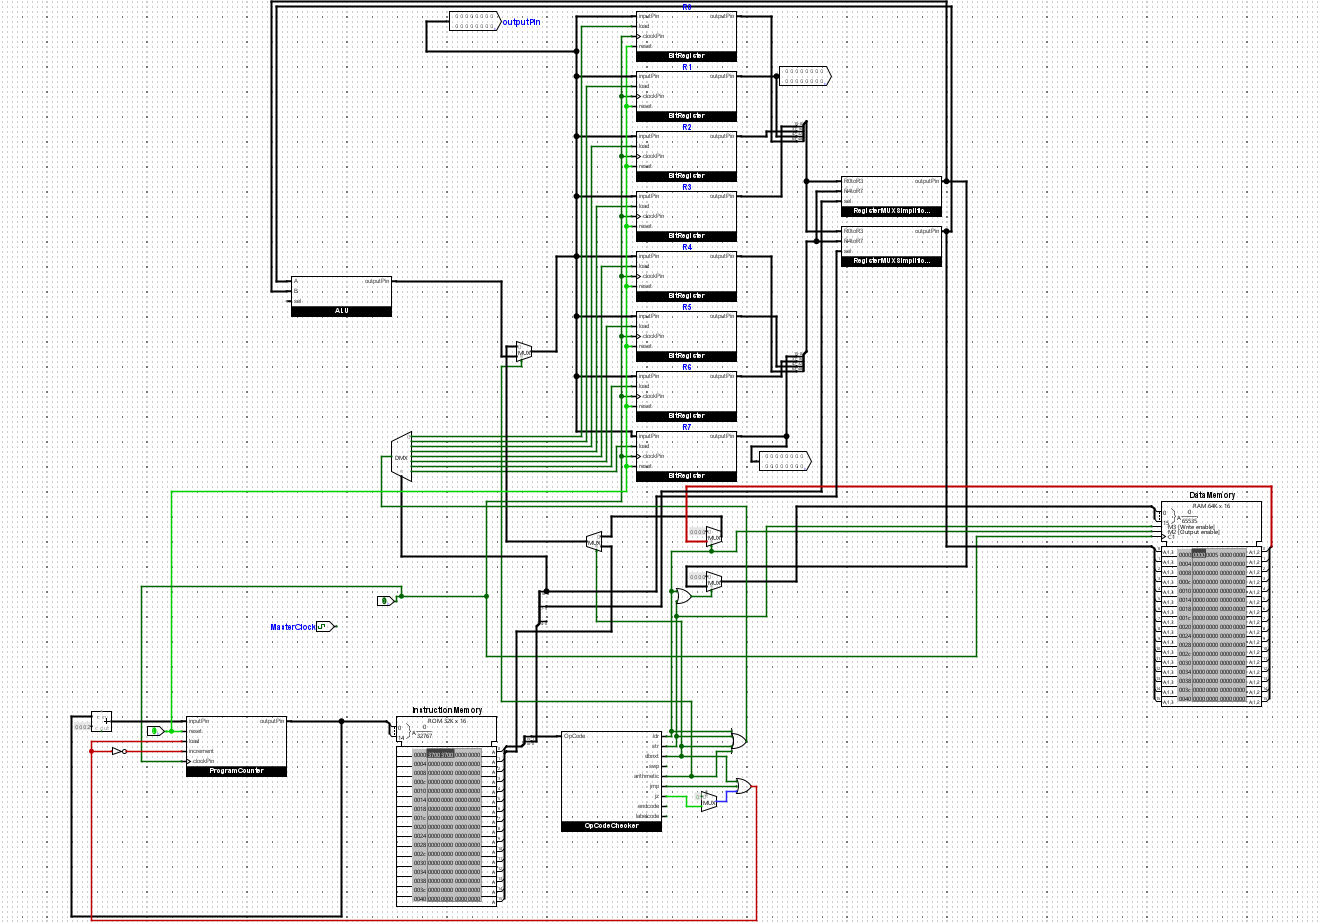
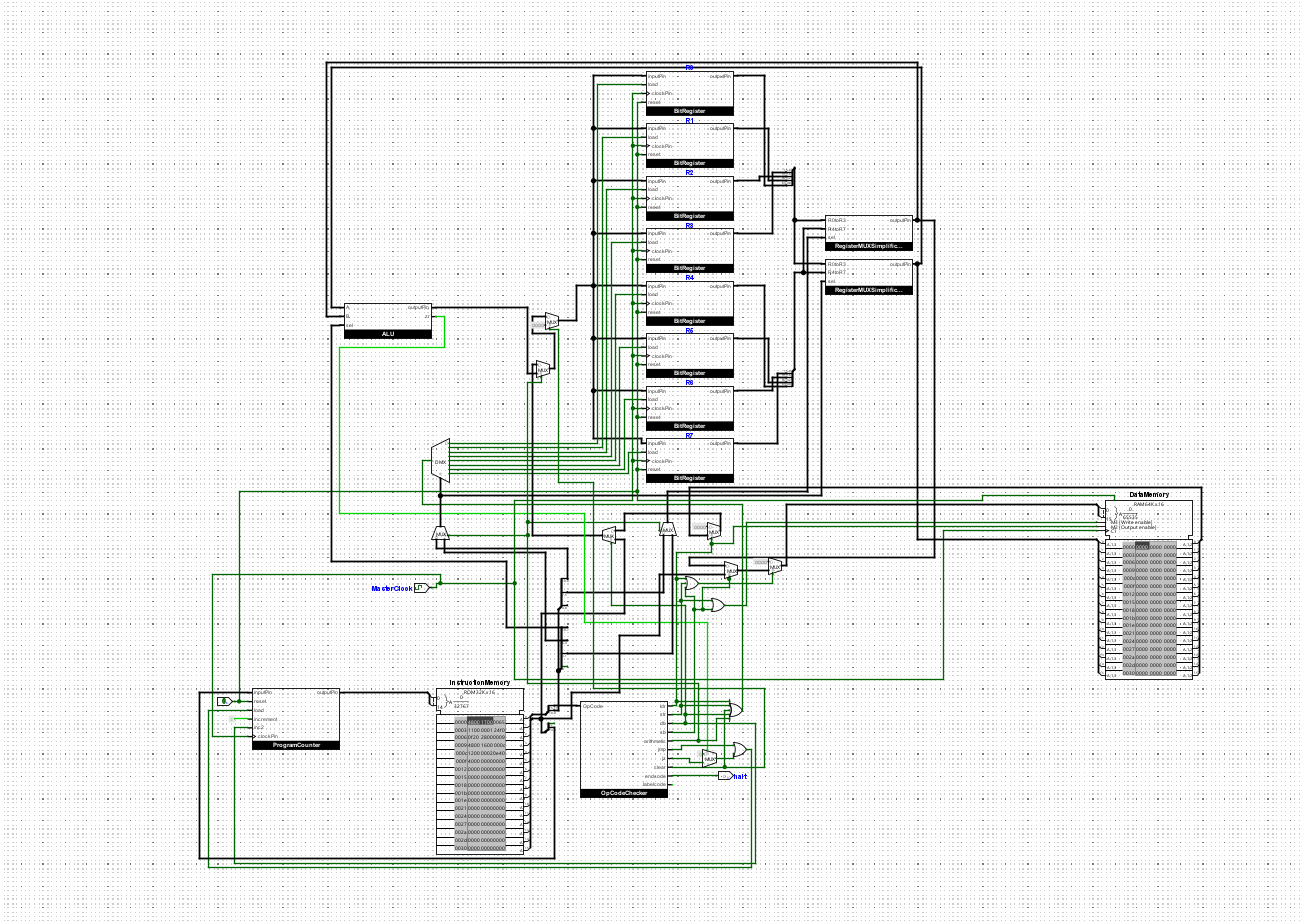
Small changes

Changed region(s): [[0.0, 0.0, 1.0, 1.0]]

diff --git a/Website/index.html b/Website/index.html
@@ -112,7 +112,7 @@
         <tr>  
           <td>label</td>
           <td>Define Label</td>
-          <td>Defines a label with the name specified after the $</td>
+          <td>Defines a label with the name specified after the $. Always start your program with label $start</td>
           <td>label NAME</td>
           <td>label $label1</td>
         </tr>
